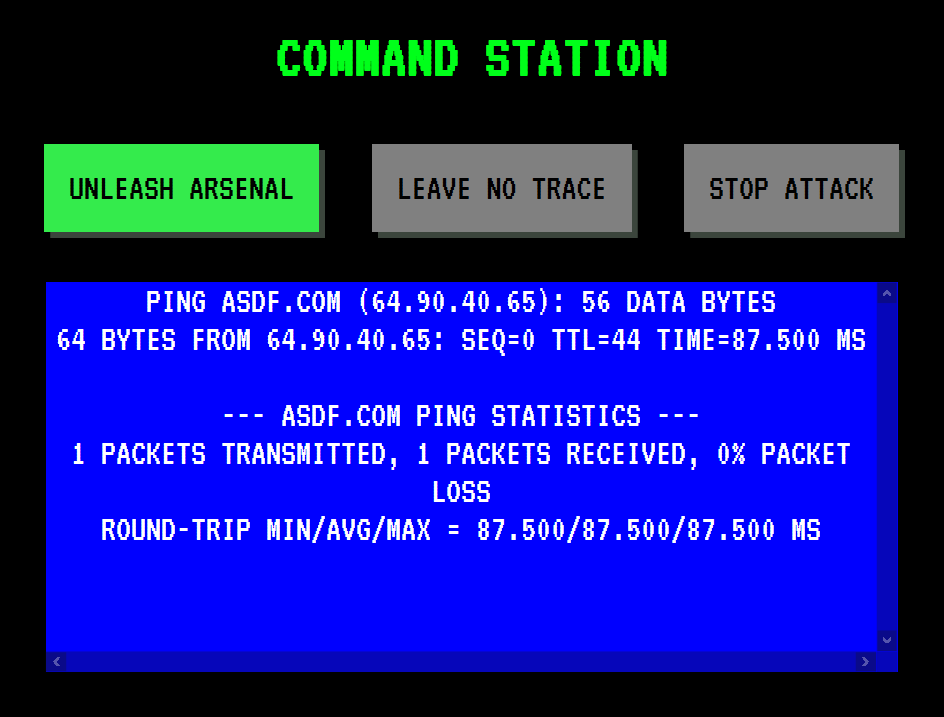
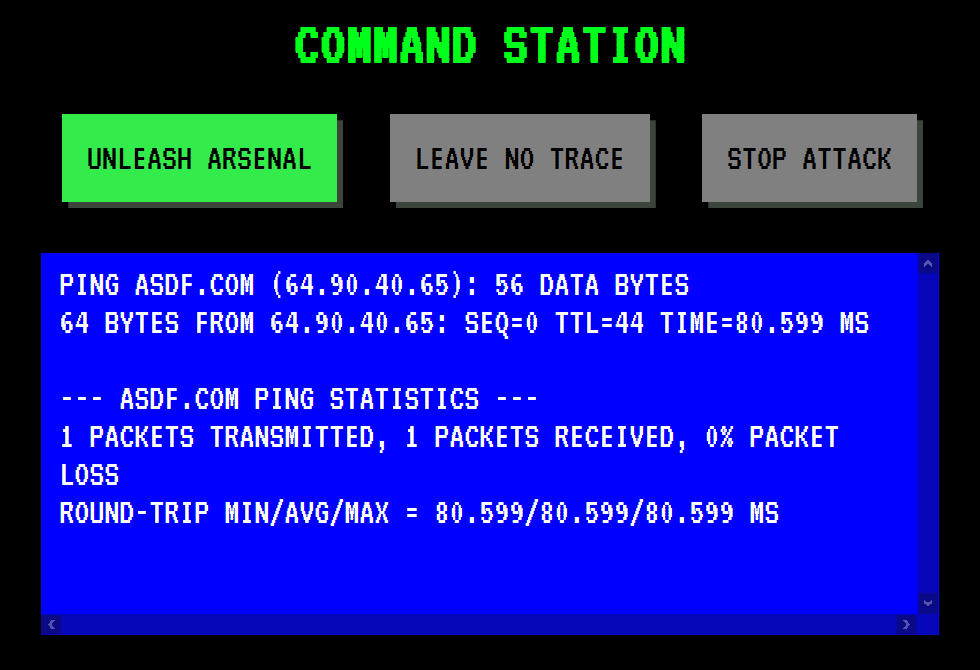
Minor HTML/CSS adjustments
- Reimplement centering as necessary with CSS.
- Don't center command output.

Divs are effectively "centered" in that they take up the entire
width of the page if you don't set a width property. Therefore,
to align the contents (ex. links), only "text-align: center" is
required.

If a width property is set, explicit centering is required.
Div = line breaks, span = no line breaks after contents.

Changed region(s): [[0.0307, 0.1493, 0.9831, 0.9552], [0.2765, 0.0299, 0.7066, 0.1194]]

diff --git a/template/station.html b/template/station.html
@@ -15,6 +15,8 @@ body {
 h1 {
   color: #00ff1a;
   font-size: 50px;
+  text-align: center;
+  margin: 20px -20px;
 }
 
 a {
@@ -41,6 +43,11 @@ a:hover {
   margin: 30px;
   height: 50%;
   overflow: scroll;
+  padding: 10px 15px;
+}
+
+#bar {
+  text-align: center;
 }
 </style>
 
@@ -56,18 +63,15 @@ function callCommand(name) {
 }
 </script>
 
-<center>
-
 <h1>{{ .Config.Title }}</h1>
 
 </br>
-<div>
+<div id="bar">
 {{ range .Config.Commands }}
     <a onclick="callCommand('{{.Name}}')" href="javascript:void(0);">{{.Name}}</a>
 {{ end }}
 </div>
 </br>
 
-<div id="output"></div>
-
-</center>
+<div id="output">
+</div>
